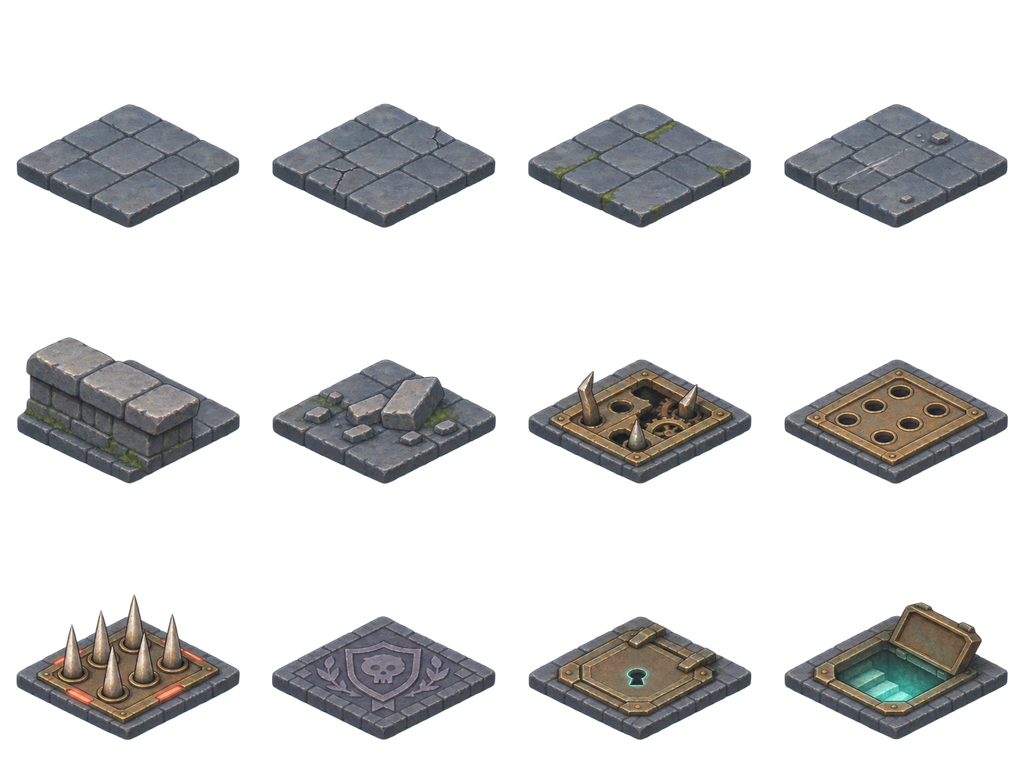
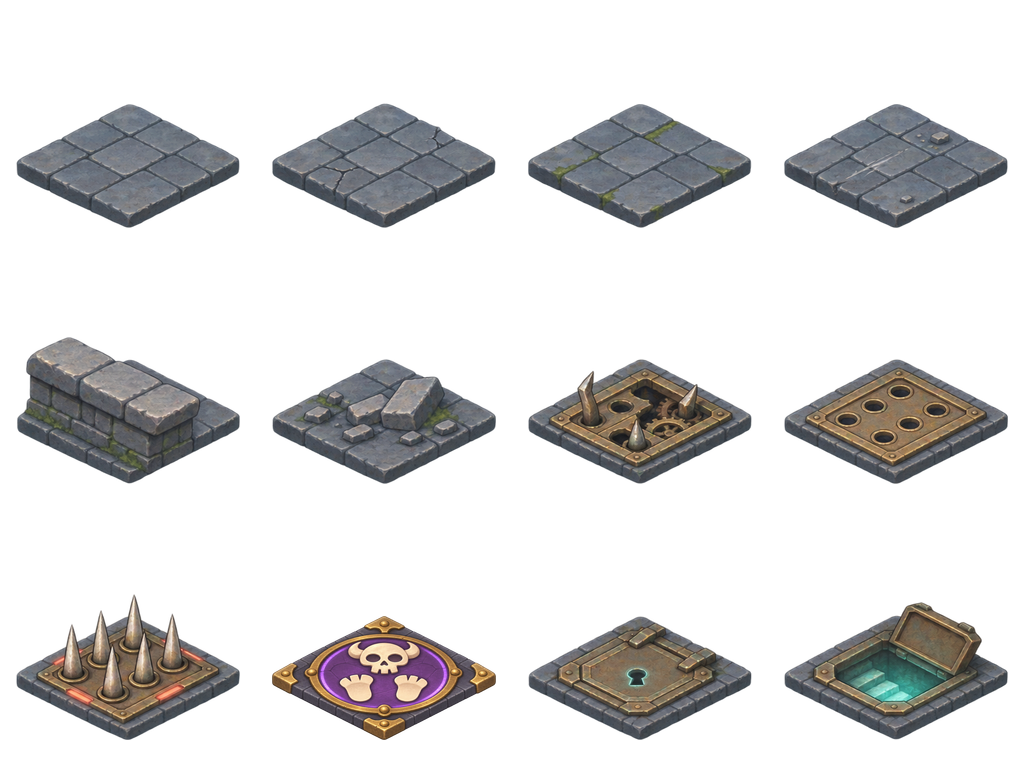
feat: 초소를 해골 문장과 발자국이 있는 몬스터 배치 발판으로 변경

Changed region(s): [[0.25, 0.7812, 0.5, 0.9688]]

diff --git a/game/view.py b/game/view.py
@@ -522,7 +522,7 @@ class View:
                 elif pos in level.posts:
                     tile = "post_empty"
                     tint = None
-                    labels.append((pos, "배치" if pos in state.soldiers else "초소"))
+                    labels.append((pos, "배치 완료" if pos in state.soldiers else "몬스터 배치"))
                 elif pos == level.exit:
                     tile = "exit_ready" if exit_ready else "exit_closed"
                     tint = None
@@ -667,7 +667,9 @@ class View:
             width = len(label) * 16 + 10
             box(sx - width / 2, sy - 28, sx + width / 2, sy - 6, (24, 35, 40))
             color = TEAL if pos == level.exit and exit_ready else INK
-            if pos in level.gates:
+            if pos in level.posts:
+                color = TEAL if pos in state.soldiers else (218, 174, 255)
+            elif pos in level.gates:
                 color = {"open": TEAL, "held": GOLD, "closed": RED}[game.gate_status(pos, state)]
             elif pos in level.plates:
                 color = TEAL if game.plate_pressed(pos, state) else GOLD

diff --git a/assets/art_v1/README.md b/assets/art_v1/README.md
@@ -14,12 +14,16 @@
 | `objects/` | 16 | 부품, 뼈 묶음, 운반·배치 병사, 작업대 3상태, 레버 2상태, 발판 2상태, 투입구 입·출력, 벨트 2방향, 화로 |
 | `characters/worker/` | 16 | NE·SE·SW·NW 각 방향의 대기·걷기 A·걷기 B·운반 자세 |
 | `atlases/` | 4 | 256px 셀로 재정렬한 환경·물체·캐릭터·낮은 벽 아틀라스 |
-| `sources/` | 13 PNG + JSON | 최초 아틀라스 3장, 교체용 부품 원본 1장, 낮은 벽 원본 9장과 전체 프롬프트. 원본 PNG는 보존한다. |
+| `sources/` | 14 PNG + JSON | 최초 아틀라스 3장, 교체용 부품·몬스터 발판 원본 2장, 낮은 벽 원본 9장과 전체 프롬프트. 원본 PNG는 보존한다. |
 | `previews/` | 3 | 전체 목록, 입문 3번 방 조립 예시, 4×4 타일 연결 검토 |
 
 개별 PNG는 모두 **256×256 RGBA8**이다. 환경 아틀라스는 **1024×768**, 물체·캐릭터 아틀라스는 **1024×1024**, 추가 낮은 벽 아틀라스는 **1024×768**이다. 자세한 파일·크기·기준점·SHA-256·프레임 좌표는 [manifest.json](manifest.json)에 기록한다.
 
 ![전체 스프라이트 목록](previews/overview.png)
+
+### 2026-11-11 몬스터 배치 발판
+
+`post_empty`를 큰 상아색 해골 문장, 발자국, 보라색 원과 황동 테두리로 교체했다. 기존 224×112 바닥 면과 12px 두께, `(128, 160)` 기준점과 아틀라스 슬롯을 유지한다. 빈자리에는 ‘몬스터 배치’, 병사를 놓은 뒤에는 ‘배치 완료’를 표시한다. 내장 `image_gen`으로 만든 [원본](sources/monster-post.png)과 [전체 프롬프트](sources/monster-post-prompt.json)를 보존했다. `node tools/art/build.mjs`로 재생성한다.
 
 ### 2026-11-09 부품 교체
 
